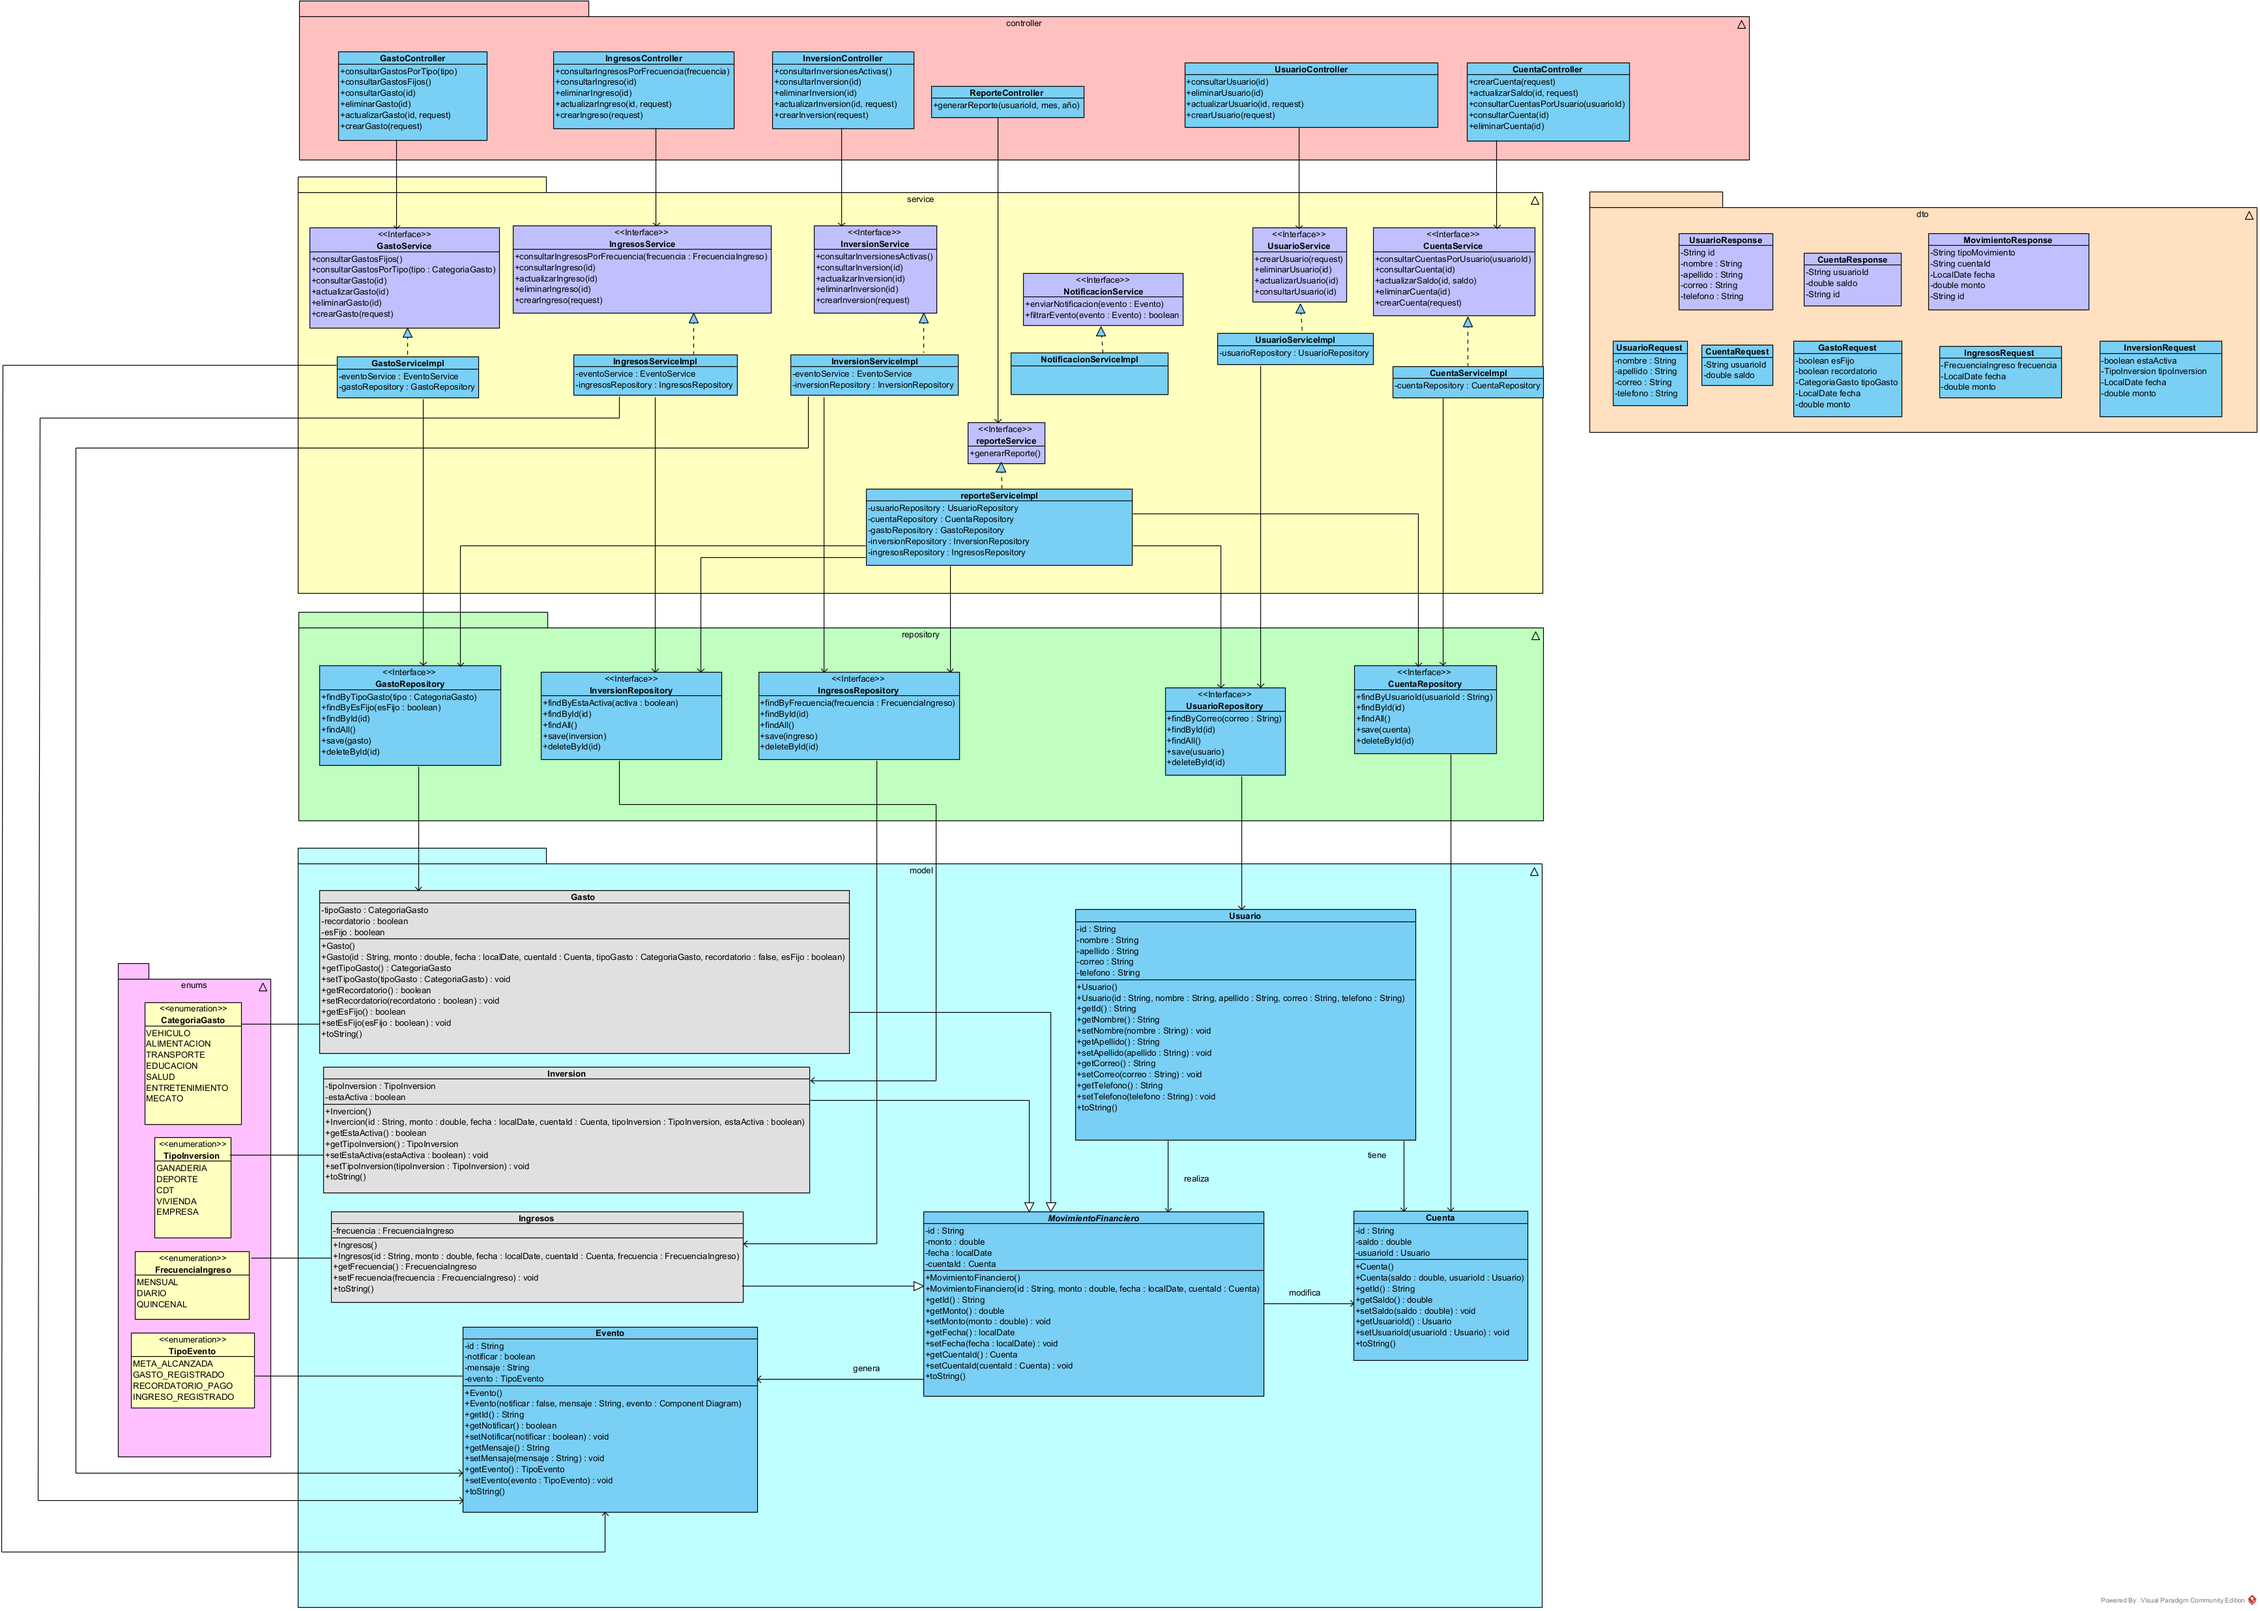
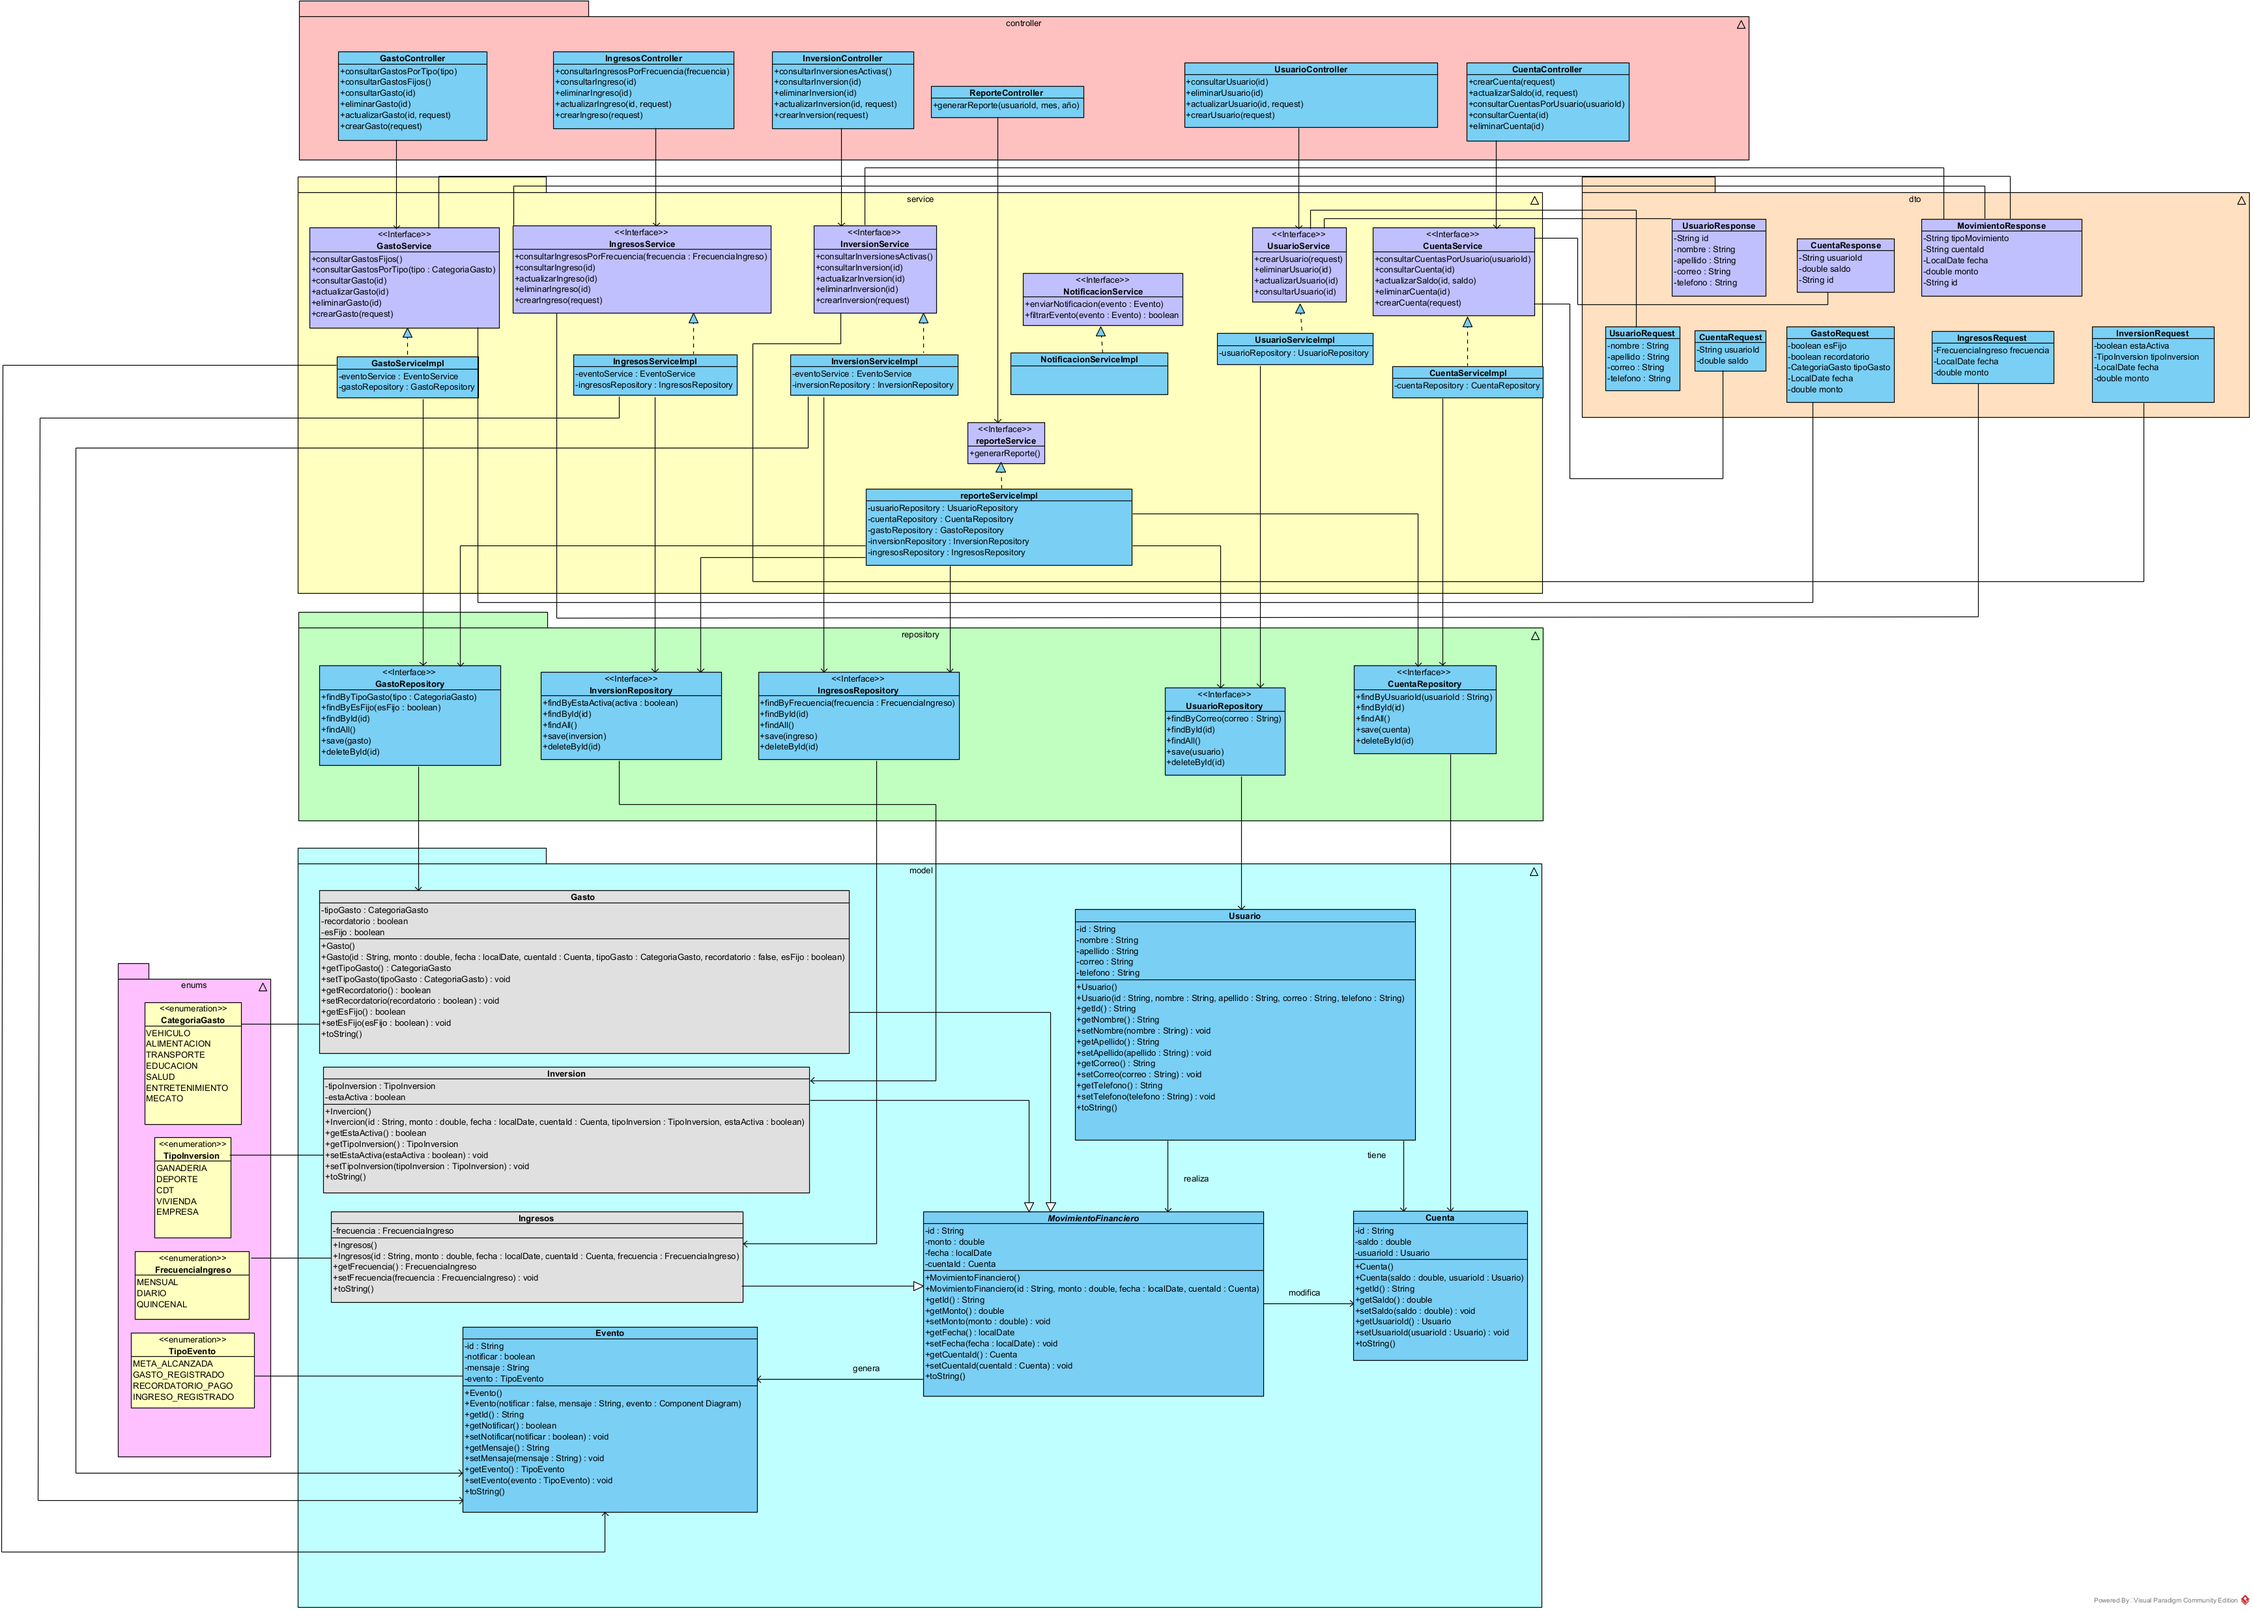
feat: implement financial report generation service and controller endpoint

diff --git a/src/main/java/com/sistema/financiero/service/impl/ReporteServiceImpl.java b/src/main/java/com/sistema/financiero/service/impl/ReporteServiceImpl.java
@@ -1,0 +1,81 @@
+package com.sistema.financiero.service.impl;
+
+import com.sistema.financiero.dto.response.ReporteResponse;
+import com.sistema.financiero.model.Cuenta;
+import com.sistema.financiero.model.Gasto;
+import com.sistema.financiero.model.Ingreso;
+import com.sistema.financiero.model.Inversion;
+import com.sistema.financiero.repository.CuentaRepository;
+import com.sistema.financiero.repository.GastoRepository;
+import com.sistema.financiero.repository.IngresoRepository;
+import com.sistema.financiero.repository.InversionRepository;
+import com.sistema.financiero.repository.UsuarioRepository;
+import com.sistema.financiero.service.ReporteService;
+import lombok.AllArgsConstructor;
+import org.springframework.stereotype.Service;
+
+import java.time.LocalDate;
+import java.util.List;
+
+@Service
+@AllArgsConstructor
+public class ReporteServiceImpl implements ReporteService {
+
+    private final UsuarioRepository usuarioRepository;
+    private final CuentaRepository cuentaRepository;
+    private final GastoRepository gastoRepository;
+    private final InversionRepository inversionRepository;
+    private final IngresoRepository ingresosRepository; // Nombrado así según el diagrama
+
+    @Override
+    public ReporteResponse generarReporte(String usuarioId, int mes, int anio) {
+        // Verificar que el usuario exista
+        usuarioRepository.findById(usuarioId)
+                .orElseThrow(() -> new RuntimeException("Usuario no encontrado"));
+
+        List<Cuenta> cuentas = cuentaRepository.findByUsuarioId(usuarioId);
+
+        double totalIngresos = 0;
+        double totalGastos = 0;
+        double totalInversiones = 0;
+
+        for (Cuenta cuenta : cuentas) {
+            String cuentaId = cuenta.getId();
+
+            // Sumar ingresos del mes/año
+            totalIngresos += ingresosRepository.findByCuentaId(cuentaId).stream()
+                    .filter(i -> isSameMonthAndYear(i.getFecha(), mes, anio))
+                    .mapToDouble(Ingreso::getMonto)
+                    .sum();
+
+            // Sumar gastos del mes/año
+            totalGastos += gastoRepository.findByCuentaId(cuentaId).stream()
+                    .filter(g -> isSameMonthAndYear(g.getFecha(), mes, anio))
+                    .mapToDouble(Gasto::getMonto)
+                    .sum();
+
+            // Sumar inversiones del mes/año
+            totalInversiones += inversionRepository.findByCuentaId(cuentaId).stream()
+                    .filter(i -> isSameMonthAndYear(i.getFecha(), mes, anio))
+                    .mapToDouble(Inversion::getMonto)
+                    .sum();
+        }
+
+        double balance = totalIngresos - totalGastos;
+
+        return ReporteResponse.builder()
+                .usuarioId(usuarioId)
+                .mes(mes)
+                .anio(anio)
+                .totalIngresos(totalIngresos)
+                .totalGastos(totalGastos)
+                .totalInversiones(totalInversiones)
+                .balance(balance)
+                .build();
+    }
+
+    private boolean isSameMonthAndYear(LocalDate fecha, int mes, int anio) {
+        if (fecha == null) return false;
+        return fecha.getMonthValue() == mes && fecha.getYear() == anio;
+    }
+}

diff --git a/src/main/java/com/sistema/financiero/controller/ReporteController.java b/src/main/java/com/sistema/financiero/controller/ReporteController.java
@@ -1,0 +1,23 @@
+package com.sistema.financiero.controller;
+
+import com.sistema.financiero.dto.response.ReporteResponse;
+import com.sistema.financiero.service.ReporteService;
+import lombok.AllArgsConstructor;
+import org.springframework.http.ResponseEntity;
+import org.springframework.web.bind.annotation.*;
+
+@RestController
+@RequestMapping("/api/reportes")
+@AllArgsConstructor
+public class ReporteController {
+
+    private final ReporteService reporteService;
+
+    @GetMapping("/generar")
+    public ResponseEntity<ReporteResponse> generarReporte(
+            @RequestParam String usuarioId,
+            @RequestParam int mes,
+            @RequestParam int anio) {
+        return ResponseEntity.ok(reporteService.generarReporte(usuarioId, mes, anio));
+    }
+}

diff --git a/src/main/java/com/sistema/financiero/dto/response/ReporteResponse.java b/src/main/java/com/sistema/financiero/dto/response/ReporteResponse.java
@@ -1,0 +1,20 @@
+package com.sistema.financiero.dto.response;
+
+import lombok.AllArgsConstructor;
+import lombok.Builder;
+import lombok.Data;
+import lombok.NoArgsConstructor;
+
+@Data
+@NoArgsConstructor
+@AllArgsConstructor
+@Builder
+public class ReporteResponse {
+    private String usuarioId;
+    private int mes;
+    private int anio;
+    private double totalIngresos;
+    private double totalGastos;
+    private double totalInversiones;
+    private double balance;
+}

diff --git a/src/main/java/com/sistema/financiero/service/ReporteService.java b/src/main/java/com/sistema/financiero/service/ReporteService.java
@@ -1,0 +1,7 @@
+package com.sistema.financiero.service;
+
+import com.sistema.financiero.dto.response.ReporteResponse;
+
+public interface ReporteService {
+    ReporteResponse generarReporte(String usuarioId, int mes, int anio);
+}
